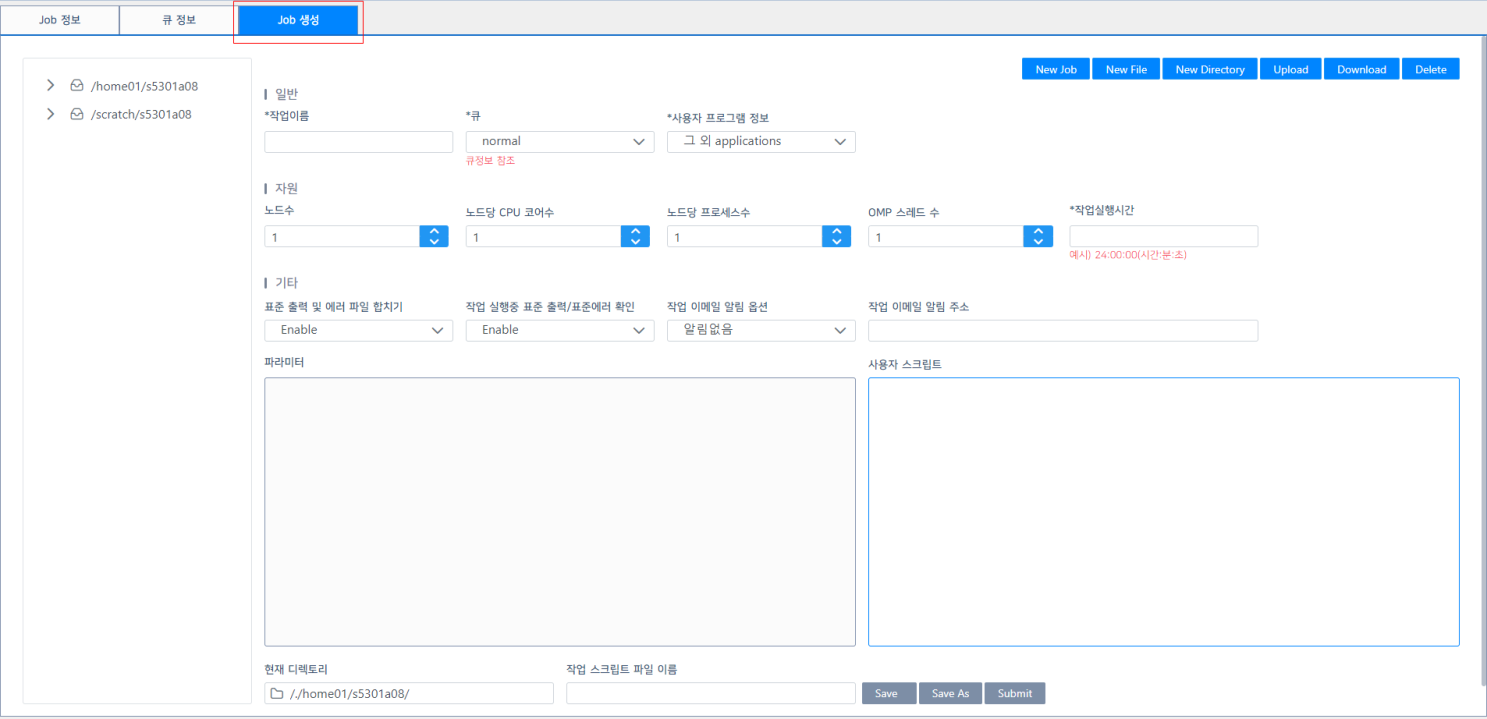
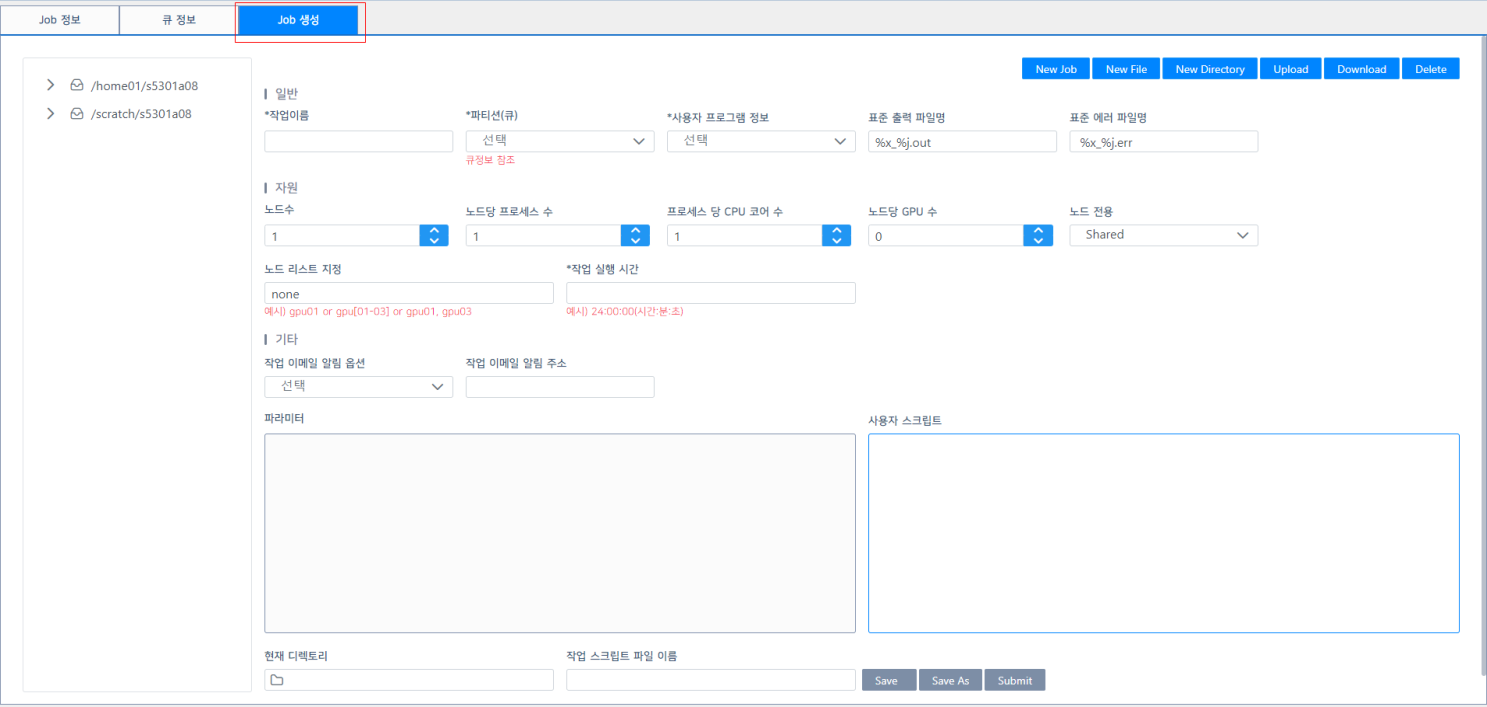
GitBook: [#360] No subject

diff --git a/userguide/neuron/user-guide.md b/userguide/neuron/user-guide.md
@@ -1,2 +1,341 @@
 # 국가센터 초고성능컴퓨팅 서비스 포털 개발 사용자 지침서
 
+## 1. 서비스 포탈
+
+### 1.1. 로그인
+
+#### 1.1.1. 로그인
+
+로그인 페이지 [https://my.ksc.re.kr](https://my.ksc.re.kr) 로 이동후 아이디, 비밀번호, OTP 번호 입력, 접속할 서비스를 선택 후 로그인한다.
+
+&#x20;
+
+### 1.2. 대시보드
+
+대시보드는 아래 메인화면과 같은 형태로 구성되며 즐겨찾기, 실행중 메뉴, SRU 정보 및 시스템, 사용자별 CPU, GPU 사용현황, 공지사항, 서비스 메뉴를 제공하며 각 항목에 대한 설명은 아래와 같다.
+
+#### 1.2.1. 메인
+
+1\) 메인 화면으로 이동한다.
+
+2\) 즐겨찾기 메뉴
+
+3\) 실행중 메뉴
+
+4\) SRU 관련 정보를 표시한다.\
+\- 사용기간을 표시한다.
+
+5\) 메뉴 진행 상태\
+\- 메뉴의 실행 상태를 표시한다.\
+\- 클릭시 실행화면 패널로 이동한다.
+
+6\) 공지사항을 표시한다.\
+\- 타이틀 클릭시 해당 공지 화면으로 링크한다.
+
+7\) 즐겨찾기\
+\- 클릭시 즐겨찾기 메뉴 영역에 메뉴가 표시된다.\
+\- 추가 상태에서 클릭시 즐겨찾기가 해제된다.
+
+8\) 누리온, 뉴론 서비스로 이동한다.
+
+9\) 설정화면을 표시한다.
+
+10\) 상담안내, 사용법 화면으로 이동한다.
+
+11\) 개인정보 변경 화면으로 이동한다.
+
+12\) 로그아웃
+
+13\) 메뉴 실행 아이콘
+
+14\) System, User별 CPU, GPU 갯수를 표시한다\
+
+
+<figure><img src="../../.gitbook/assets/image1.png" alt=""><figcaption><p>[메인화면]</p></figcaption></figure>
+
+#### 1.2.2. 그래프
+
+그래프는 CPU 코어수, GPU 수를 표시하며 표시 내용은 아래와 같다.
+
+\-  Total 대비 사용 가능한 CPU코어/GPU 수를 표시
+
+\-  Total 전체 CPU코어/GPU수
+
+\-  Avail 사용가능한 CPU코어/GPU수
+
+\-  System 전체 시스템 현황
+
+\-  User 사용자 할당 현황
+
+&#x20;
+
+<figure><img src="../../.gitbook/assets/image2.png" alt=""><figcaption><p>[시스템 사용현황]</p></figcaption></figure>
+
+&#x20;
+
+#### 1.2.3. 서브 메뉴
+
+서브 메뉴는 즐겨찾기로 추가되거나 현재 실행중인 메뉴가 있을 시 좌측에 표시되며 마우스 오버시 각 메뉴에 대한 세부 리스트가 표시되며 세부 내용은 아래와 같다.
+
+1\)  메뉴를 실행한다.
+
+2\) 실행중 메뉴\
+\- 메뉴의 정상 실행시 표시된다.\
+\- 실행시간이 표시된다.\
+\- 클릭시 메뉴 실행화면 패널로 이동한다.
+
+3\) 현재 실행중인 메뉴를 종료한다.
+
+4\) 즐겨찾기 메뉴 영역.\
+\- 마우스 오버시 서브 메뉴를 표시한다.\
+\- 실행중인 메뉴 존재시 아이콘 좌측에 실행중 아이콘이 표시된다.\
+\- 실행중인 메뉴 존재시 실행중인 메뉴 갯수를 아이콘 우측 상단에 표시한다.
+
+5\) 실행중 메뉴 영역.\
+\- 마우스 오버시 서브 메뉴를 표시한다.\
+\- 실행중인 메뉴 존재시 아이콘 좌측에 실행중 아이콘이 표시된다.\
+\- 실행중인 메뉴 존재시 실행중인 메뉴 갯수를 아이콘 우측 상단에 표시한다.
+
+<figure><img src="../../.gitbook/assets/image3.png" alt=""><figcaption><p>[서브메뉴]</p></figcaption></figure>
+
+
+
+#### 1.2.4. 설정
+
+로그아웃시 실행중인 Pod의 종료, 유지 여부를 설정한다.
+
+#### 1.2.5. 메뉴 실행
+
+메뉴의 실행은 크게 2가지 형태로 메뉴를 바로 실행하는 메뉴와 메뉴의 항목 입력후 실행하는 방법이 있다.
+
+\-  Jupyter, RStudio 메뉴는 실행 아이콘(+)를 클릭하면 입력항목이 나타난다.
+
+\-  항목 입력후 확인 버튼을 클릭하여 실행한다.
+
+\-  바로 실행하는 메뉴는 실행 아이콘(+) 클릭후 확인하여 실행한다.
+
+#### 1.2.6. 메뉴 상태
+
+메뉴를 실행하면 각 메뉴를 실행상태에 따라 아래 그림과 같이 상태를 표시하며 실행중 Abnormal 상태가 발생시 상태에 마우스를 오버하면 상태에 대한 정보확인이 가능하다.
+
+1\) 현재 실행중인 메뉴의 상태를 표시한다.\
+\- 실행중 Abnormal 발생시 진행 상태를 표시한다.\
+\- 마우스 오버시 전체 상태/메세지를 표시한다.
+
+2\) 현재 실행중인 메뉴를 종료한다.
+
+<figure><img src="../../.gitbook/assets/image4.png" alt=""><figcaption><p>[메뉴 상태]</p></figcaption></figure>
+
+
+
+### 1.3. 배치작업 <a href="#_toc118293705" id="_toc118293705"></a>
+
+#### 1.3.1. 큐 정보 <a href="#_toc118293706" id="_toc118293706"></a>
+
+&#x20;가.   프로그램 실행
+
+① 메인 대시보드의 서비스 준비가 완료되면, 배치 작업 위젯의 + 버튼을 클릭하여 프로그램을 구동합니다.
+
+② 탭으로 구성된 화면에서 \[큐 정보]를 클릭하여 이동합니다.
+
+<figure><img src="../../.gitbook/assets/image5 (1).png" alt=""><figcaption></figcaption></figure>
+
+※ 배치 작업을 실행시 서비스 준비가 완료되면 다음과 같은 화면으로 변경됩니다.&#x20;
+
+<figure><img src="../../.gitbook/assets/20221103_164025.png" alt=""><figcaption></figcaption></figure>
+
+<figure><img src="../../.gitbook/assets/image8.png" alt=""><figcaption></figcaption></figure>
+
+나.   화면 구성
+
+\- Neuron 서버의 큐의 Nodes, CPUs, GPUs(Idle, Alloc, Down)의 자원정보를 확인할 수 있다.
+
+※  기능 구성
+
+1\. Refresh : 최신 정보로 업데이트 한다.
+
+2\. Filtering : 큐 상태 목록의 행을 클릭 한다. 큐 구성 상태가 필터링 된다.
+
+3\. Filtering Clear : 필터링 상태를 취소한다.
+
+<figure><img src="../../.gitbook/assets/image9 (1).png" alt=""><figcaption></figcaption></figure>
+
+
+
+#### 1.3.2. JOB 정보
+
+&#x20;
+
+가.   프로그램 실행
+
+① 배치잡 프로그램 탭에서 \[Job정보]를 클릭하여 이동합니다.
+
+&#x20;
+
+<figure><img src="../../.gitbook/assets/image10 (1).png" alt=""><figcaption></figcaption></figure>
+
+&#x20;&#x20;
+
+나. 화면 구성
+
+\-  Neuron서버의 실행중인 Job 목록을 확인할 수 있으며,  \[Your Jobs , All Jobs] 로 실행중인 목록을 필터링 할 수 있다. Your Jobs에서 사용자가 실행한 프로그램에 한해서 실행을 취소할 수 있다.
+
+※  기능 구성
+
+1\. Filtering : \[Your Jobs , All Jobs]으로 데이터를 필터링 할 수 있다.
+
+2\. Refresh : 서버에 동작하는 Job의 정보를 갱신 합니다.
+
+3\. Cancel : Your Jobs에서 실행중인 프로그램에 대해서 취소할 수 있다. 다중 선택을 지원한다.
+
+4\. 키워드 검색 지원 : 모든 필드에 대한 키워드로 필터링 할 수 있다.
+
+5\. 스크립트 내용보기 : JobId 컬럼을 클릭하면 실행중인 스크립트 내용을 확인 할 수 있다.
+
+<figure><img src="../../.gitbook/assets/image11 (1).png" alt=""><figcaption><p> </p></figcaption></figure>
+
+#### 1.3.3. JOB 생성
+
+가. 프로그램 실행
+
+① 배치잡 프로그램 탭에서 \[JOB생성]을 클릭하여 이동합니다.
+
+※  뉴론 스크립트 구성
+
+\- 작업이름 : 사용자 입력 작업 이름
+
+\- 파티션(큐) : 시스템에서 제공하는 큐를 콤보박스에서 선택
+
+\- 사용자 프로그램 정보 : 시스템에서 제공하는 사용자 프로그램 정보를 콤보박스에서 선택
+
+\- 표준 출력 파일명 : 표출 파일명을 지정한다.
+
+\- 표준 에러 파일명 : 표준 에러 파일명을 지정한다.
+
+\- 노드수 : 노드 수를 입력한다
+
+\- 노드당 프로세스 수 : 노드당 프로세스 수를 입력한다.
+
+\- 프로세스 당 CPU 코어 수 : 프로세스 당 CPU 코어 수를 입력한다.
+
+\- 노드당 GPU 수 : 노드당 GPU 수
+
+\- 노드 전용 : Shared/Exclusive를 입력한다.
+
+\- 노드 리스트 지정 : 노드 리스트를 입력한다.
+
+\- 작업 실행 시간 : hh:mm:ss 형식으로 작업 실행 시간을 입력한다.
+
+\- 작업 이메일 알림 옵션 : \[알림없음, 모두, 시작, 완료, 중단, 재시작]를 콤보박스에서 선택
+
+\- 작업 이메일 알림 주소 : 알림을 받을 이메일 주소를 입력한다.
+
+&#x20;
+
+※  기술지원 > 지침서 > 사용법 > 뉴론 > 스케줄러(SLURM)를 통한 작업 실행 문서를 참조s
+
+<figure><img src="../../.gitbook/assets/image12.png" alt=""><figcaption></figcaption></figure>
+
+&#x20;
+
+※  기능 구성
+
+1\. 파일 트리 : 할당된 계정의 파일 목록이 출력된다.
+
+2\. 기능 버튼 :
+
+New Job : Neuron 에서 지원하는 Job 스크립트를 신규로 파일을 생성하는 작업을 시작한다.
+
+New File : 일반 스크립트 파일을 생성할 수 있도록 Edit 화면으로 이동한다
+
+New Directory : 파일트리에서 선택한곳에서 신규 디렉토리를 생성한다
+
+Upload : 선택한 파일을 업로드한다. 파일 다중 선택을 지원한다.
+
+Download: 파일 트리에서 선택된 자료를 다운로드한다. 파일은 단독으로 다운로드 하며, 폴더는 Zip파일형식으로 압축하여 다운로드 수행한다.
+
+Delete : 파일 트리에서 선택한 파일 또는 디렉토리를 삭제한다.
+
+&#x20;
+
+3\. 스크립트 입력폼 :
+
+\- 폼의 선택 값에 따라 파라미터 자동 입력 영역에 자동으로 생성됩니다.
+
+
+
+4\. 스크립트 :
+
+\-  파라미터 자동 입력 영역 : 사용자가 편집할 수 없으며 파라미터 입력란에서 입력한 값이 자동으로 반영된다
+
+\-  사용자 스크립트 영역 : 파라미터 이외의 값을 사용자가 자유롭게 입력할 수 있다
+
+&#x20;
+
+5\. 파일 정보
+
+\-  현재 디렉토리 : 현재 선택한 디렉토리를 표시한다
+
+\-  작업 스크립트 파일명 : 현재 선택한 Job 파일 이름을 표시한다
+
+&#x20;
+
+6\. 파일 저장 및 제출
+
+\- Save : Job 파일을 저장한다
+
+\- SaveAs : Job 파일을 다른 이름으로 저장하기 위해 입력창을 표시한다
+
+\- Submit : 현재 선택한 Job 파일을 제출한다.
+
+※  Job을 제출을 위해서 파일을 저장해야 한다.
+
+&#x20;
+
+<figure><img src="../../.gitbook/assets/image13 (1).png" alt=""><figcaption></figcaption></figure>
+
+
+
+### 1.4. 모바일
+
+#### 1.4.1. 로그인 <a href="#_toc118293710" id="_toc118293710"></a>
+
+&#x20;
+
+아이디, 비밀번호, OTP 번호 입력, 접속할 서비스(Neuron)를 선택 후 로그인한다.
+
+&#x20;
+
+<figure><img src="../../.gitbook/assets/image14 (1).png" alt=""><figcaption></figcaption></figure>
+
+#### 1.4.2. 대시보드 <a href="#_toc118293711" id="_toc118293711"></a>
+
+1\. 이용중인 서비스 내역 표기 : SRU Time, 제공량, 잔여량, 사용량, 활용률, 계약기간 정보를 제공한다.
+
+2\. 시스템 공지/정기점검 공지사항 : 최근 공지사항에 표기 된다.
+
+3\. My Job, 큐정보 영역 : My Job에서 현재 동작 프로그램 확인 하며,  취소기능을 지원한다.  큐정보는 Idle, Alloc, Down 자원 사용량을 확인 가능하다.
+
+&#x20;
+
+<figure><img src="../../.gitbook/assets/image15 (1).png" alt=""><figcaption><p> </p></figcaption></figure>
+
+#### 1.4.3. Job 정보 <a href="#_toc118293712" id="_toc118293712"></a>
+
+1\.     Job 정보 : My Job탭에서 Job Id 항목을 선택하면 스크립트 내용을 표기할 수 있다.
+
+
+
+※    Push Message : Batch Job 종료되어있으면 Job의 완료 메세지를 받을 수 없습니다.
+
+&#x20;&#x20;
+
+<figure><img src="../../.gitbook/assets/20221104_104450.png" alt=""><figcaption></figcaption></figure>
+
+#### 1.4.4. 큐 정보 <a href="#_toc118293713" id="_toc118293713"></a>
+
+큐 정보 : 큐 정보를 탭을 선택하면 접속한 시스템의 큐 정보를 보여준다
+
+<figure><img src="../../.gitbook/assets/image18.png" alt=""><figcaption></figcaption></figure>
+
+&#x20;
